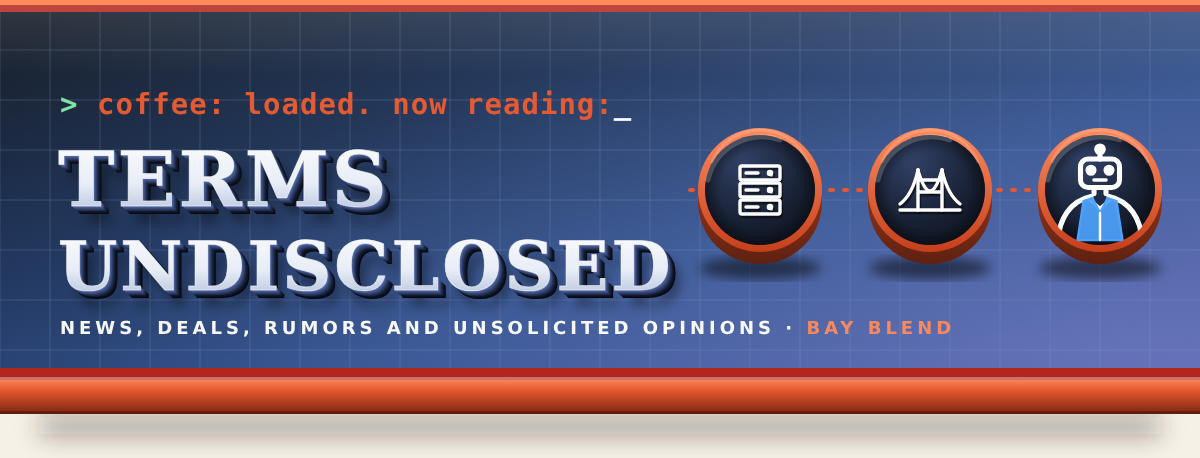
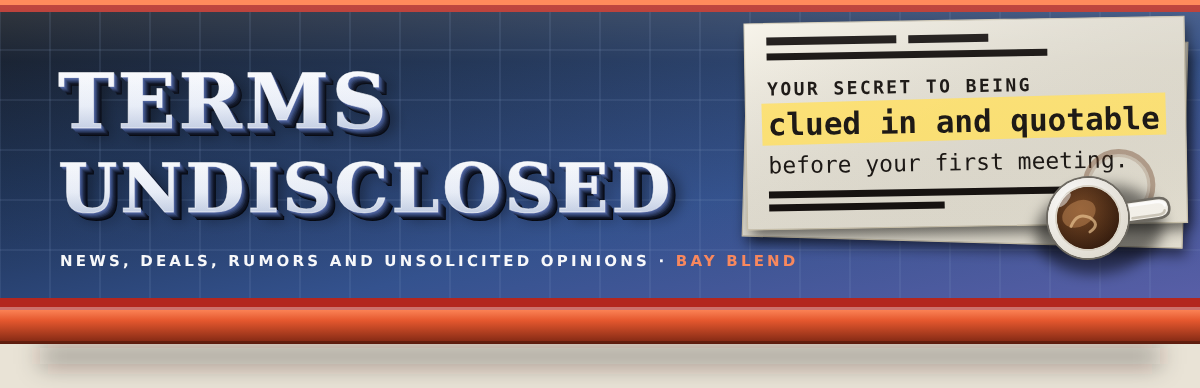
Add files via upload

diff --git a/template/build_site.py b/template/build_site.py
@@ -131,14 +131,15 @@ def render(secs, rel=''):
 def long_date(iso):
     d = datetime.date.fromisoformat(iso); return d.strftime('%A, %B ') + str(d.day) + d.strftime(', %Y')
 
-TAG_ALT = 'Your secret to being clued in and quotable before your first meeting.'
-LABEL_IMG = lambda rel: f'<img class="tagimg" src="{rel}banners/00_tagline.png" alt="{TAG_ALT}" width="774" height="190">'
-def tile(iso):
-    d = datetime.date.fromisoformat(iso)
-    return (f'<div class="tile" aria-label="{long_date(iso)}"><span class="tm">{d.strftime("%B").upper()}</span>'
-            f'<span class="td">{d.day}</span><span class="tw">{d.strftime("%A").upper()}</span><span class="ty">{d.year}</span></div>')
+def short_date(iso):
+    d = datetime.date.fromisoformat(iso); return f'{d.strftime("%A %b")} {d.day} {d.year}'
+def term_top(iso):
+    return (f'<div class="term"><span class="tg">&gt;</span> <span class="tk">edition</span>.date <span class="tm">=</span> <span class="tv">&quot;{short_date(iso)}&quot;</span>;<br>'
+            f'<span class="tg">&gt;</span> <span class="tv">coffee: loaded. now reading:</span><span class="cur">_</span></div>')
+TERM_END = ('<div class="term tend"><span class="tg">&gt;</span> <span class="tv">coffee: empty. edition complete.</span><br>'
+            '<span class="tg">&gt;</span> exit 0<span class="cur">_</span></div>')
 def topline(rel, iso=None):
-    return f'<div class="topline">{tile(iso) if iso else ""}{LABEL_IMG(rel)}</div>'
+    return term_top(iso) if iso else ''
 def first_para(secs):
     for t, ls in secs:
         if t in ('THE ONE THING', 'THE LEAD') and ls:
@@ -187,8 +188,10 @@ p.lead{background:none;border:0;padding:0;font-size:19px}p.lead .dc{float:left;f
 .callrule{border-left:4px solid var(--c);padding-left:14px}
 .boxed{border:1px solid var(--ink);background:var(--card);padding:16px 18px 4px;margin:0 0 16px}
 ol.three{list-style:none;padding:0;counter-reset:n}ol.three li{counter-increment:n;display:flex;gap:14px;align-items:center;margin:0 0 14px}ol.three li:before{content:counter(n);flex:none;width:46px;height:46px;border-radius:23px;background:var(--c);color:#fff;font:bold 24px/46px Georgia,serif;text-align:center}
-.masthead{display:block;width:calc(100% + 32px);max-width:none;height:auto;margin:0 -16px}.byline{text-align:center;font:italic 14px Georgia,serif;margin:10px 0 0}.byline .by{color:var(--red)}.topline{display:flex;flex-wrap:wrap;justify-content:center;align-items:center;gap:12px 18px;margin:14px 0 22px}.tagimg{display:block;width:100%;max-width:387px;height:auto}.tile{display:flex;flex-direction:column;align-items:center;width:108px;border:1px solid #8A6238;border-radius:8px;overflow:hidden;background:#FBF1DA;box-shadow:0 6px 10px rgba(60,40,20,.32);font-family:Arial,sans-serif;text-align:center}.tile .tm{align-self:stretch;background:#B3261E;color:#fff;font:bold 11px Arial,sans-serif;letter-spacing:3px;padding:6px 0}.tile .td{font:bold 44px/1 Georgia,serif;color:#1B2430;padding:6px 0 0}.tile .tw{font:bold 10px Arial,sans-serif;letter-spacing:3px;color:#5C6573;padding-top:4px}.tile .ty{font:10px Arial,sans-serif;letter-spacing:2px;color:#5C6573;padding:2px 0 8px}.byline .pill{display:inline-block;border:1px solid var(--ink);border-radius:999px;padding:6px 18px;font:italic 15px/1.45 Georgia,serif;font-style:italic}.byline .pill b{color:var(--red)}
+.masthead{background:#4B505C;display:block;width:calc(100% + 32px);max-width:none;height:auto;margin:0 -16px}.byline{text-align:center;font:italic 14px Georgia,serif;margin:10px 0 0}.byline .by{color:var(--red)}.topline{display:flex;flex-wrap:wrap;justify-content:center;align-items:center;gap:12px 18px;margin:14px 0 22px}.tagimg{display:block;width:100%;max-width:387px;height:auto}.tile{display:flex;flex-direction:column;align-items:center;width:108px;border:1px solid #8A6238;border-radius:8px;overflow:hidden;background:#FBF1DA;box-shadow:0 6px 10px rgba(60,40,20,.32);font-family:Arial,sans-serif;text-align:center}.tile .tm{align-self:stretch;background:#B3261E;color:#fff;font:bold 11px Arial,sans-serif;letter-spacing:3px;padding:6px 0}.tile .td{font:bold 44px/1 Georgia,serif;color:#1B2430;padding:6px 0 0}.tile .tw{font:bold 10px Arial,sans-serif;letter-spacing:3px;color:#5C6573;padding-top:4px}.tile .ty{font:10px Arial,sans-serif;letter-spacing:2px;color:#5C6573;padding:2px 0 8px}.byline .pill{display:inline-block;border:1px solid var(--ink);border-radius:999px;padding:6px 18px;font:italic 15px/1.45 Georgia,serif;font-style:italic}.byline .pill b{color:var(--red)}
 .col p a{word-break:break-word}
+.desk{background:#4B505C;margin:0 -16px;padding:2px 20px 28px}.desk nav{margin:0;padding:18px 0 4px;font:bold 11px Arial,sans-serif;letter-spacing:.14em}.desk nav a{color:#D5DEEE;margin:0 9px}.desk nav a:hover{color:#E8CBA6}.desk .date{color:#D5DEEE;margin:14px 0 0}.desk .date a{color:#D5DEEE}
+.term{font:min(14px,3.3vw)/1.75 Menlo,Consolas,'Courier New',monospace;color:#F2F5FA;white-space:nowrap;margin:16px 0 0}.term .tg{color:#8CF0B0}.term .tk{color:#8FDCFF}.term .tm{color:#B6C0D4}.term .tv{color:#E8CBA6}.term .cur{color:#fff}.term.tend{margin:26px 0 0}
 .subline{font:italic 15px Georgia,serif;text-align:center;margin:30px 0 0;color:var(--mute)}.subline a{color:var(--red);font:bold 14px Arial,sans-serif;font-style:normal;margin-left:6px}footer .copy a{color:var(--mute)}
 '''
 JS = '''<script>
@@ -204,14 +207,12 @@ def subscribe_box():
     return f'''<div class="sub"><h2>GET IT IN YOUR INBOX</h2><p class="sub-note">Written every weekday morning by software, with one human on the loop and a firm policy of staying out of it.</p><form class="subscribe" action="{SUBSCRIBE_ACTION}" method="post"><input type="email" name="email" required placeholder="you@example.com" aria-label="Email address"><input class="hp" type="text" name="website" tabindex="-1" autocomplete="off" aria-hidden="true"><button type="submit">Subscribe</button><span class="msg" id="msg" aria-live="polite"></span><small>One email each weekday morning. Unsubscribe any time, with a quick confirmation.</small></form></div>'''
 def sub_prompt(rel):
     return f'<p class="subline">Get it in your inbox every weekday morning. <a href="{rel}subscribe/">Subscribe</a></p>'
-def page(title, body, rel='', desc=META_DESC, canon='/', top=None):
+def page(title, body, rel='', desc=META_DESC, canon='/', top=None, after=''):
     return f'''<!doctype html><html lang="en"><head><meta charset="utf-8"><meta name="viewport" content="width=device-width,initial-scale=1">
 <title>{E(title)}</title><meta name="description" content="{E(desc)}"><link rel="canonical" href="{BASE}{canon}">
 <meta property="og:title" content="{E(title)}"><meta property="og:description" content="{E(desc)}"><meta property="og:image" content="{BASE}/banner.png"><link rel="stylesheet" href="{rel}style.css"><link rel="icon" href="{rel}favicon.svg" type="image/svg+xml"><link rel="icon" href="{rel}favicon-32x32.png" sizes="32x32" type="image/png"><link rel="icon" href="{rel}favicon-16x16.png" sizes="16x16" type="image/png"><link rel="shortcut icon" href="{rel}favicon.ico"><link rel="apple-touch-icon" href="{rel}apple-touch-icon.png"></head><body><div class="wrap">
-<img class="masthead" src="{rel}banners/00_masthead.png" alt="{E(SITE)}. {E(TAGLINE)}" width="1200" height="458">
-{top if top is not None else topline(rel)}
-<nav><a href="{rel or './'}">Today</a><a href="{rel}archive/">Archive</a><a href="{rel}about/">About</a><a href="{rel}subscribe/">Subscribe</a></nav>
-{body}
+<img class="masthead" src="{rel}banners/00_masthead.png" alt="{E(SITE)}. {E(TAGLINE)}" width="1200" height="388">
+{(DESK_OPEN := '<div class="desk"><nav><a href="' + (rel or './') + '">Today</a><a href="' + rel + 'archive/">Archive</a><a href="' + rel + 'about/">About</a><a href="' + rel + 'subscribe/">Subscribe</a></nav>')}{(top + body + TERM_END + '</div>') if top else ('</div>' + body)}{after}
 <footer>Informed, opinionated, occasionally wrong. Verify before repeating at dinner.<br><span class="copy">{E(BYLINE)}</span><br><span class="copy">All views expressed are strictly AI generated and are not those of any human.</span><br><span class="copy">No humans in the loop. One human on the loop.</span><br><span class="copy">&copy; {datetime.date.today().year} Humans Not Included Media, publisher of {E(SITE)}. All rights reserved. <a href="{rel}unsubscribe/">Unsubscribe</a></span></footer></div>{JS}</body></html>'''
 def w(path, content):
     p = os.path.join(OUT, path); os.makedirs(os.path.dirname(p), exist_ok=True); open(p, 'w', encoding='utf-8').write(content)
@@ -230,9 +231,9 @@ if os.path.isdir(isrc):
         shutil.copy(os.path.join(isrc, _f), os.path.join(OUT, _f))
 w('style.css', CSS)
 for iso, secs in eds:
-    w(f'editions/{iso}/index.html', page(f'{SITE} — {long_date(iso)}', render(secs, '../../') + sub_prompt('../../'), rel='../../', desc=first_para(secs), canon=f'/editions/{iso}/', top=topline('../../', iso)))
+    w(f'editions/{iso}/index.html', page(f'{SITE} — {long_date(iso)}', render(secs, '../../'), rel='../../', desc=first_para(secs), canon=f'/editions/{iso}/', top=topline('../../', iso), after=sub_prompt('../../')))
 latest_iso, latest = eds[0]
-w('index.html', page(SITE, f'<p class="date"><a href="editions/{latest_iso}/">Permalink to this edition</a></p>' + render(latest) + sub_prompt(''), desc=first_para(latest), top=topline('', latest_iso)))
+w('index.html', page(SITE, f'<p class="date"><a href="editions/{latest_iso}/">Permalink to this edition</a></p>' + render(latest), desc=first_para(latest), top=topline('', latest_iso), after=sub_prompt('')))
 items = ''.join(f'<li><span class="d">{long_date(i)}</span><br><a href="../editions/{i}/">{E(SITE)}, {long_date(i)}</a><p>{E(first_para(s))}</p></li>' for i, s in eds)
 w('archive/index.html', page(f'Archive — {SITE}', f'<h1 class="page">Archive</h1><ul class="arch">{items}</ul>' + sub_prompt('../'), rel='../', canon='/archive/'))
 w('about/index.html', page(f'About — {SITE}', f'''<h1 class="page">About</h1><p>{E(SITE)} is a short weekday briefing on what is actually going on in Bay Area business and tech. It covers who is up, who is down, what people are whispering and what the press is getting wrong. It is written to be read in five minutes and repeated at dinner, where it will be credited to you.</p><p>The tone is dry on purpose. The takes are meant to be correct, and the jokes are there to help them along. Stories are chosen for water-cooler interest, and the number of press releases a story generated counts against it.</p><p><strong>How this is made.</strong> Every weekday morning, software searches the news, picks the stories, writes the takes, attaches the links and sends the email, all before most readers have located their coffee. The daily run is fully automated, so in the technical sense there are no humans in the loop. The software in question is Claude, an AI model made by Anthropic, which this briefing occasionally covers, so read those items with whatever discount you think fair.</p><p>There is, however, a human on the loop, which is a different thing and a much less restful job. The curator conceived the whole enterprise and designed every part of it, from the sections and the voice to the rules on what counts as a story, how dry the jokes should be, and when an old story earns an update. The curator reads each edition every morning, in the manner of a nervous parent at a school play.</p><p>The software is told to link only to pages it actually read, and it still gets things wrong now and then. That is what the footer means by occasionally wrong, and it is why every item carries its sources. Think of them as receipts.</p><p>Readers are welcome to forward the email and to quote short excerpts with a link back to the original. Please do not republish whole editions without permission. The software has no feelings about this, but the publisher does.</p><p>Designed by hand, written by Claude. Questions, corrections and tips are welcome at <a href="mailto:human@termsundisclosed.com">human@termsundisclosed.com</a>, where an actual human will read them.</p>''' + sub_prompt('../'), rel='../', canon='/about/'))
